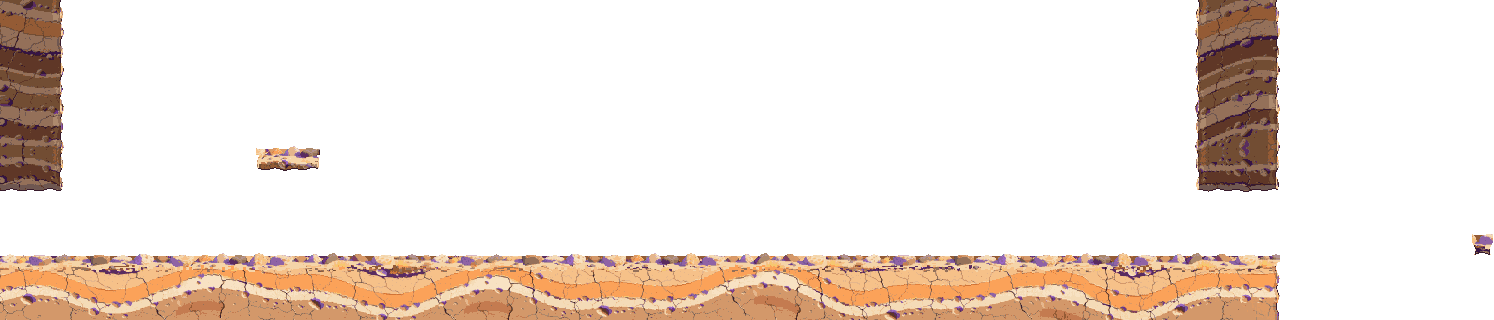
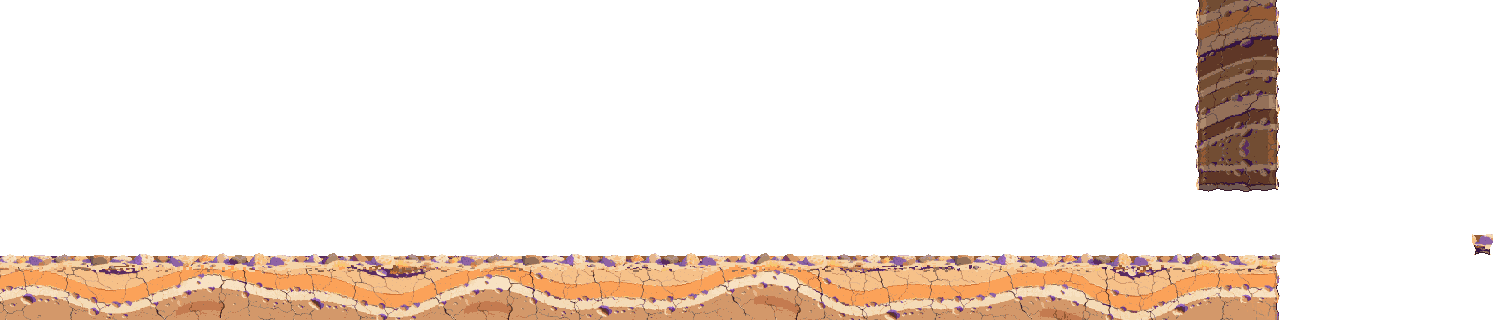
World fixes D446 D448 D451 D483: pickup sparkle, CityGates column/ledge gone, road over the gate, camera floor at 85 %
Claude-Session: https://claude.ai/code/session_01A2gnDWaoeJGbj3GPH4dnCF

Changed region(s): [[0.0, 0.0, 0.0616, 0.5938], [0.1539, 0.4375, 0.2155, 0.5312]]

diff --git a/Scripts/Tools/world_fixes_sheet.py b/Scripts/Tools/world_fixes_sheet.py
@@ -1,0 +1,27 @@
+"""До/після кадрів capture_world_fixes.gd: на кімнату один аркуш, рядок на стовпець, ліворуч «до», праворуч «після».
+  python Scripts/Tools/world_fixes_sheet.py <before_dir> <after_dir> <out_dir> [scale]
+Без <after_dir> (передати «-») — лише «до»."""
+import sys
+from pathlib import Path
+
+from PIL import Image, ImageDraw
+
+before, after, out = Path(sys.argv[1]), sys.argv[2], Path(sys.argv[3])
+scale = float(sys.argv[4]) if len(sys.argv) > 4 else 0.5
+out.mkdir(parents=True, exist_ok=True)
+rooms: dict[str, list[Path]] = {}
+for p in sorted(before.glob("*.png"), key=lambda p: (p.stem.rsplit("_", 1)[0], int(p.stem.rsplit("_", 1)[1]))):
+    rooms.setdefault(p.stem.rsplit("_", 1)[0], []).append(p)
+for room, shots in rooms.items():
+    first = Image.open(shots[0])
+    w, h = int(first.width * scale), int(first.height * scale)
+    cols = 1 if after == "-" else 2
+    sheet = Image.new("RGB", (w * cols + 4 * (cols - 1), h * len(shots) + 4 * (len(shots) - 1)), "white")
+    for row, shot in enumerate(shots):
+        pair = [shot] if after == "-" else [shot, Path(after) / shot.name]
+        for col, src in enumerate(pair):
+            if src.exists():
+                sheet.paste(Image.open(src).resize((w, h)), (col * (w + 4), row * (h + 4)))
+        ImageDraw.Draw(sheet).text((4, row * (h + 4) + 4), shot.stem, fill="yellow")
+    sheet.save(out / f"{room}.png")
+    print(out / f"{room}.png", sheet.size)
